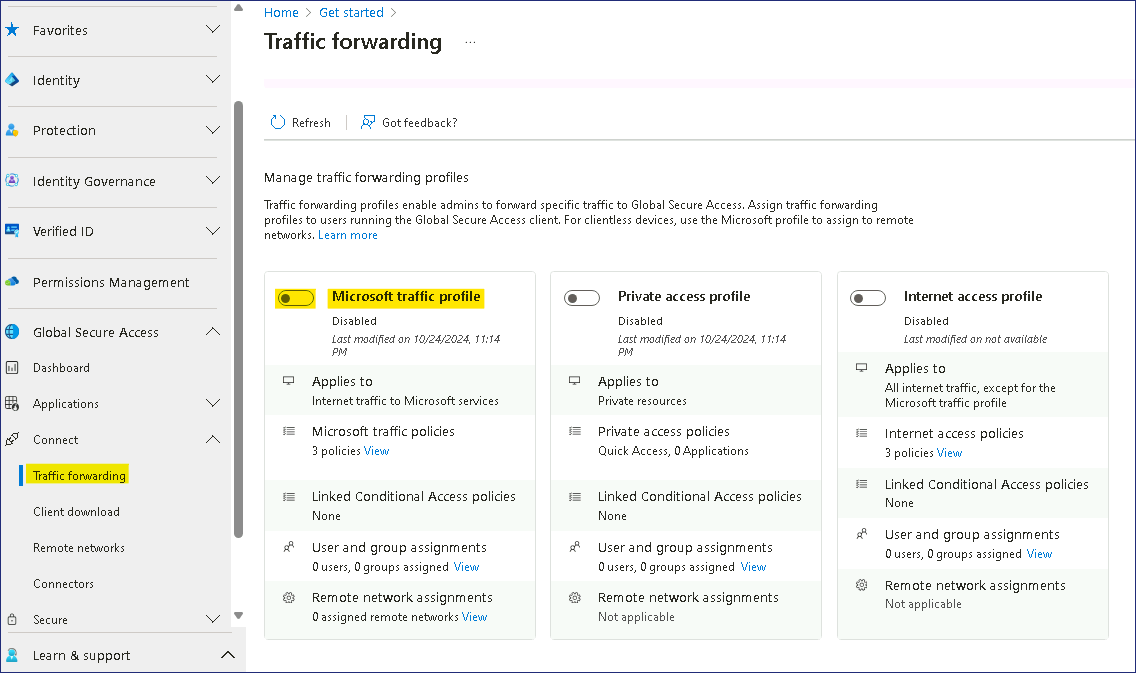
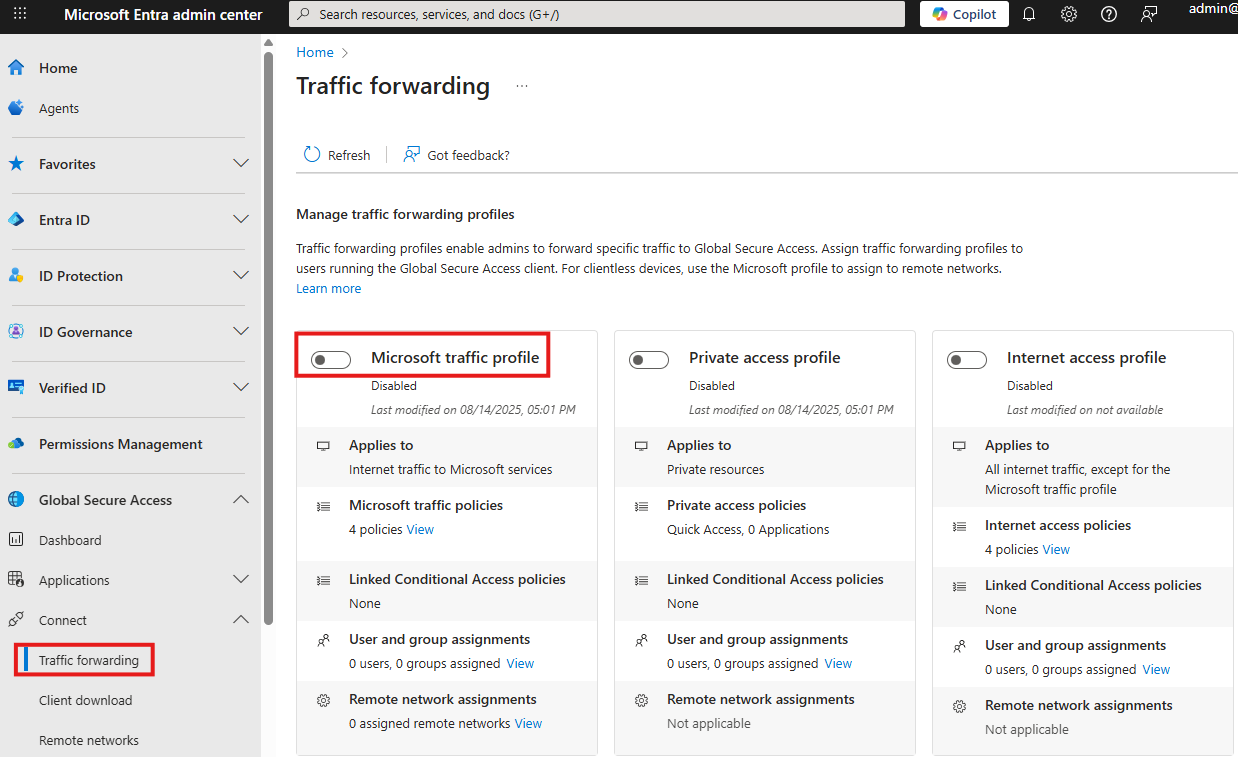
L4

diff --git a/Lab 4 – Global Secure Access/Lab 4 – Global Secure Access.md b/Lab 4 – Global Secure Access/Lab 4 – Global Secure Access.md
@@ -118,7 +118,7 @@ to register our Lab VM to the Contoso’s Entra ID.
 
     ![](./media/image16.png)
 
-1.  On the lefthand menu, under **Global Security Access** expand Connect and then select
+1.  On the lefthand menu, under **Global Security Access** expand **Connect** and then select
 **Traffic forwarding** and then click on the **Activate** button.
 
     ![](./media/image17.png)
@@ -127,7 +127,7 @@ to register our Lab VM to the Contoso’s Entra ID.
 
     ![](./media/image18.png)
 
-3. From the notificaiton - To use these capabilities the following licenses may be required: Microsoft Entra Internet Access or Microsoft Entra Private Access. Activate or Learn more. Click on the **Activate** link.
+3. Click on **Traffic Forwarding** from the left menu and then from the notificaiton - To use these capabilities the following licenses may be required: Microsoft Entra Internet Access or Microsoft Entra Private Access. Activate or Learn more. Click on the **Activate** link.
 
     ![](./media/image18b.png)
 
@@ -144,11 +144,12 @@ to register our Lab VM to the Contoso’s Entra ID.
 
 3. Switch back to the Microsoft Entra Portal tab and refresh the browser.
 
-3. From the left navigation, expand Global Secure Access and from the
-    connect dropdown, select **Traffic Forwarding**. Select the check
+3. From the left navigation, expand **Global Secure Access** and from the
+    **Connect** dropdown, select **Traffic Forwarding**. Select the check
     box near **Microsoft traffic profile.**
 
     ![ ](./media/image19.png)
+
 
 4.  Select **OK** on the prompt.
 
@@ -280,94 +281,9 @@ The most current version of the Global Secure Access Client can be downloaded fr
 
 ## Exercise 3 – Configuring Microsoft Entra Private Access
 
-### **Task 0 – Create a Windows Server 2019**
-
-1.  While still on LON-CL1, in a new tab navigate to the Azure portal
-    `https://portal.azure.com` login using the **Office 365
-    Tenant credential**.
-
-2.  From the Portal menu or from the **Home** page, select **Create a
-    resource**.
-
-    ![](./media/image37.png)
-
-3.  Select **Create** under **Virtual Machines**.
-
-     ![computer Description automatically
- generated](./media/image38.png)
-
-4. On the **Create a Virtual machine** page, provide the below details
-
-    * Resource group - Create new - `ContosoDevices` 
-
-    * Virtual machine name - `MyDevice`
-
-    * Region - **West US**
-
-    * Availability options - **No infrastructure redundancy required**
-
-    * Security type - **Standard**
-
-    * Image - **Windows Server 2019 Datacenter - x64 Gen2**
-
-    ![](./media/image39.png)
-
-    * Size  - **Standard_D2s_v3**
-
-    * Username – `Admin01`
-
-    * Password – `Pa55w.rd@123`
-    
-    * Confirm Password – `Pa55w.rd@123`
-
-    ![](./media/image40.png)
-
-5.  Click on **Review + create**.
-
-6.  Review the settings on the summary page, and then select **Create**.
-
-     ![](./media/image41.png)
-
-7.  Once the deployment is complete select **Go to resource**.
-
-    ![](./media/image42.png)
-
-8.  Select **Connect**.
-
-    ![ ](./media/image43.png)
-
-9.  Under **Native** **RDP** click on the **Download RDP file**, also
-    make a note of the **Public IP address** and if prompted for
-    downloading the RDP file click on **Keep** button.
-
-    ![](./media/image44.png)
-
 ### **Task 1 – Install the Private Network connector**
 
-1.  Using the RDP file downloaded in **Task 0** log into the **Windows
-    Server 2019** VM, using the following credentials.
-
-    * Username – `Admin01`
-
-    * Password – `Pa55w.rd@123`
-
-18. Open the Server Manager and Select Local Server, then click on
-    **On** link for **IE Enhanced Security Configuration**, the set the
-    **Administrator** and **Users** switch to **Off**
-
-    ![](./media/image45.png)
-
-20. Click on the **Start menu** and type `Default apps` and select
-    **Default apps**
-
-    ![](./media/image47.png)
-
-21. Scroll down and then under **Web browser**, click on Internet
-    Explorer, and then choose **Microsoft Edge**.
-
-    ![](./media/image48.png)
-
-22. Open the **Edge Browser** and navigate to
+1.  Switch to **LON-SVR1**, then open the **Edge Browser** and navigate to
     `https://entra.microsoft.com/` and sign in using the
     **Office 365 tenant credentials.**
 
@@ -407,7 +323,6 @@ The most current version of the Global Secure Access Client can be downloaded fr
 30. You will be able to see the **Microsoft Entra private network connector** service running in the **Standard** services tab.
 
     ![](./media/image55.png)
-    ![alt text](image.png)
 
 31. Return to the Microsoft Entra admin center in your browser and
     browse to **Global Secure Access** \ **Connect** \ **Connectors** refresh the page
